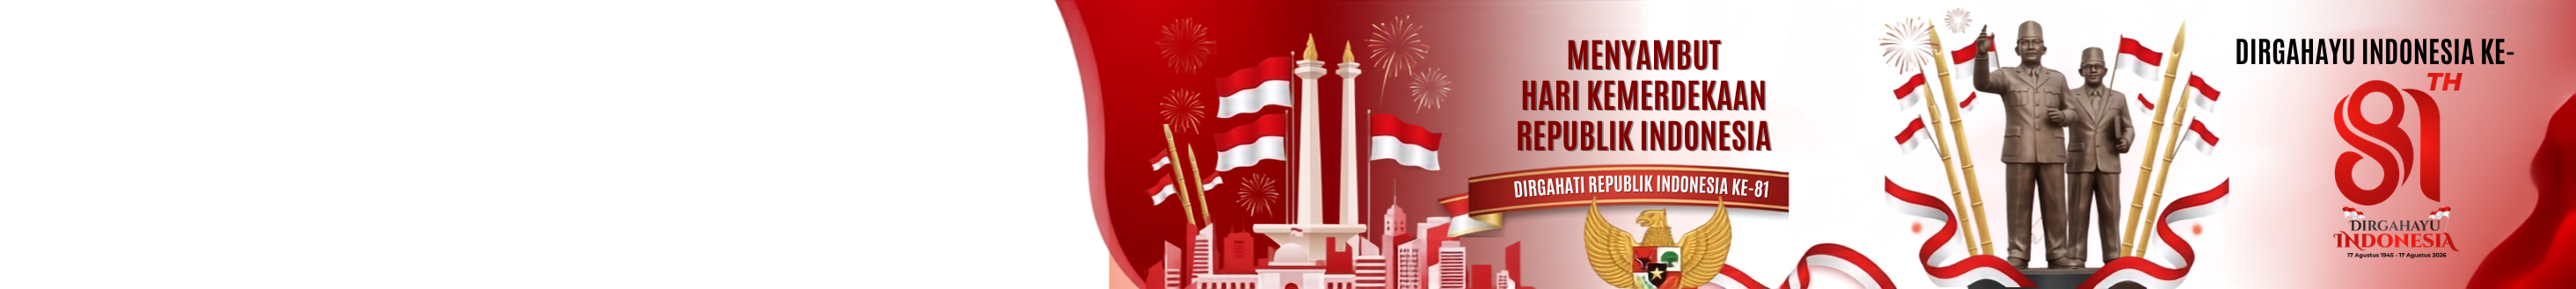
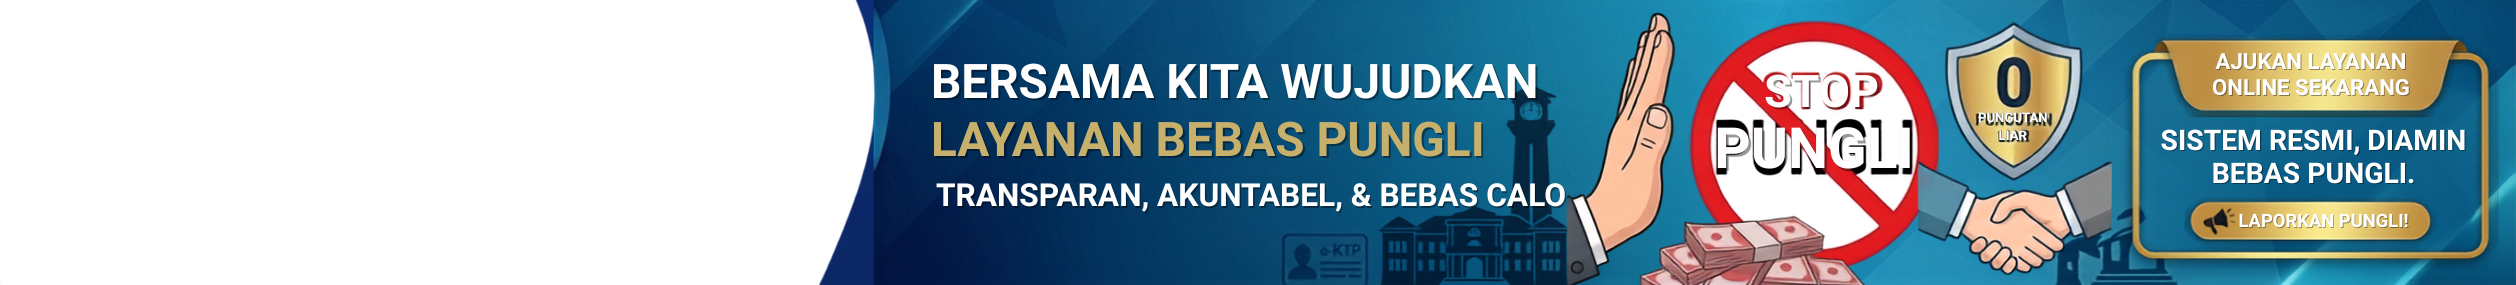
refactor(home): replace news hero with gallery carousel

diff --git a/frontend/public/src/components/home/PopularNewsSection.jsx b/frontend/public/src/components/home/PopularNewsSection.jsx
@@ -1,0 +1,114 @@
+import React, { useState, useEffect } from 'react';
+import { Link } from 'react-router-dom';
+import { newsService } from '../../services/newsService';
+import SectionTitle from '../ui/SectionTitle';
+import { Clock, ChevronRight } from 'lucide-react';
+
+const PopularNewsSection = () => {
+  const [news, setNews] = useState([]);
+  const [isLoading, setIsLoading] = useState(true);
+
+  // Fallback data
+  const fallbackNews = [
+    {
+      id: 'fn1',
+      slug: '#',
+      title: 'Jadwal Perekaman KTP-el Jemput Bola Bulan November',
+      date: '10 Nov 2026'
+    },
+    {
+      id: 'fn2',
+      slug: '#',
+      title: 'Panduan Mengurus Akta Kelahiran Secara Online',
+      date: '08 Nov 2026'
+    },
+    {
+      id: 'fn3',
+      slug: '#',
+      title: 'Perubahan Jam Pelayanan Selama Bulan Ramadhan',
+      date: '05 Nov 2026'
+    },
+    {
+      id: 'fn4',
+      slug: '#',
+      title: 'Waspada Calo! Semua Layanan Adminduk GRATIS',
+      date: '02 Nov 2026'
+    }
+  ];
+
+  useEffect(() => {
+    const fetchPopularNews = async () => {
+      try {
+        setIsLoading(true);
+        // Let's get page 2 so it differs from the top news grid
+        const response = await newsService.getNews(2, 4);
+        if (response?.data && response.data.length > 0) {
+          const normalizedData = response.data.map(item => ({
+            id: item.id,
+            slug: item.slug,
+            title: item.title,
+            date: new Date(item.created_at).toLocaleDateString('id-ID', {
+              day: 'numeric',
+              month: 'short',
+              year: 'numeric'
+            })
+          }));
+          setNews(normalizedData);
+        } else {
+          setNews(fallbackNews);
+        }
+      } catch (error) {
+        console.error('Error fetching popular news:', error);
+        setNews(fallbackNews);
+      } finally {
+        setIsLoading(false);
+      }
+    };
+    fetchPopularNews();
+  }, []);
+
+  if (isLoading) {
+    return (
+      <div className="mt-12">
+        <SectionTitle title="Berita Pilihan" />
+        <div className="flex flex-col gap-4">
+          {[1, 2, 3, 4].map(i => (
+            <div key={i} className="h-16 bg-gray-200 animate-pulse rounded-lg"></div>
+          ))}
+        </div>
+      </div>
+    );
+  }
+
+  return (
+    <div className="mt-12">
+      <div className="flex justify-between items-end mb-6">
+        <SectionTitle title="Berita Pilihan" />
+      </div>
+      
+      <div className="flex flex-col gap-3">
+        {news.map((item) => (
+          <Link 
+            key={item.id} 
+            to={`/berita/${item.slug}`}
+            className="group flex items-center p-4 bg-white rounded-xl border border-border-subtle shadow-sm hover:shadow-md hover:border-brand-primary/30 transition-all duration-300"
+          >
+            <div className="w-2 h-2 rounded-full bg-brand-primary mr-4 opacity-50 group-hover:opacity-100 group-hover:scale-150 transition-all"></div>
+            <div className="flex-grow">
+              <h3 className="text-brand-secondary font-bold text-sm md:text-base leading-snug group-hover:text-brand-primary transition-colors line-clamp-2">
+                {item.title}
+              </h3>
+              <div className="flex items-center text-gray-400 text-xs mt-1.5 font-medium">
+                <Clock size={12} className="mr-1" />
+                <span>{item.date}</span>
+              </div>
+            </div>
+            <ChevronRight className="text-gray-300 group-hover:text-brand-primary group-hover:translate-x-1 transition-all ml-4 shrink-0" size={20} />
+          </Link>
+        ))}
+      </div>
+    </div>
+  );
+};
+
+export default PopularNewsSection;

diff --git a/frontend/public/src/components/home/HeroGallery.jsx b/frontend/public/src/components/home/HeroGallery.jsx
@@ -66,7 +66,9 @@ const HeroGallery = () => {
         
         const children = container.querySelectorAll('.gallery-item');
         if (children[nextIndex]) {
-           children[nextIndex].scrollIntoView({ behavior: 'smooth', block: 'nearest', inline: 'center' });
+           const child = children[nextIndex];
+           const scrollPosition = child.offsetLeft - (container.clientWidth / 2) + (child.clientWidth / 2);
+           container.scrollTo({ left: scrollPosition, behavior: 'smooth' });
         }
       }
     }, 5000);
@@ -75,9 +77,12 @@ const HeroGallery = () => {
 
   const scrollTo = (index) => {
     if (scrollRef.current) {
-      const children = scrollRef.current.querySelectorAll('.gallery-item');
+      const container = scrollRef.current;
+      const children = container.querySelectorAll('.gallery-item');
       if (children[index]) {
-        children[index].scrollIntoView({ behavior: 'smooth', block: 'nearest', inline: 'center' });
+        const child = children[index];
+        const scrollPosition = child.offsetLeft - (container.clientWidth / 2) + (child.clientWidth / 2);
+        container.scrollTo({ left: scrollPosition, behavior: 'smooth' });
         setCurrentIndex(index);
       }
     }
@@ -109,7 +114,7 @@ const HeroGallery = () => {
     return (
       <SectionContainer background="white" className="pt-2 pb-6">
         <div className="w-full flex justify-center py-4">
-          <div className="w-[90%] md:w-[75%] lg:w-[65%] aspect-[16/9] md:aspect-[21/9] bg-gray-200 animate-pulse rounded-2xl"></div>
+          <div className="w-[90%] md:w-[75%] lg:w-[65%] aspect-[4/3] md:aspect-[16/9] bg-gray-200 animate-pulse rounded-2xl"></div>
         </div>
       </SectionContainer>
     );
@@ -146,7 +151,7 @@ const HeroGallery = () => {
                 }`}
                 onClick={() => scrollTo(index)}
               >
-                <div className="relative aspect-[16/9] md:aspect-[21/9] w-full">
+                <div className="relative aspect-[4/3] md:aspect-[16/9] w-full">
                   <img 
                     src={gallery.imageUrl} 
                     alt={gallery.title}

diff --git a/frontend/public/src/components/global/RightSidebar.jsx b/frontend/public/src/components/global/RightSidebar.jsx
@@ -47,20 +47,6 @@ const RightSidebar = () => {
           ))}
         </div>
       </WidgetCard>
-
-      {/* 4. Berita Pilihan */}
-      <WidgetCard title="Berita Pilihan">
-        <ul className="space-y-4">
-          {sidebarData.beritaPilihan.map(item => (
-            <li key={item.id} className="group cursor-pointer">
-              <Link to={`/berita/${item.slug}`} className="text-sm font-bold text-brand-secondary group-hover:text-brand-primary line-clamp-2 leading-snug transition-colors">
-                {item.title}
-              </Link>
-              <span className="text-xs text-gray-500 mt-1 block font-medium">{item.date}</span>
-            </li>
-          ))}
-        </ul>
-      </WidgetCard>
     </aside>
   );
 };

diff --git a/frontend/public/src/pages/Home.jsx b/frontend/public/src/pages/Home.jsx
@@ -5,9 +5,9 @@ import ContentWithSidebarLayout from '../layouts/ContentWithSidebarLayout';
 import HeadlineTicker from '../components/home/HeadlineTicker';
 import HeroGallery from '../components/home/HeroGallery';
 import LatestNewsGrid from '../components/home/LatestNewsGrid';
-import LatestNewsSection from '../components/home/LatestNewsSection';
 import RightSidebar from '../components/global/RightSidebar';
 import FeaturedServicesSection from '../components/home/FeaturedServicesSection';
+import PopularNewsSection from '../components/home/PopularNewsSection';
 import Card from '../components/ui/Card';
 import SectionContainer from '../components/shared/SectionContainer';
 
@@ -40,7 +40,7 @@ const Home = () => {
       <LatestNewsGrid />
 
       {/* 2. Quick Services (Shortcut Layanan) */}
-      <SectionContainer className="bg-white pb-6 pt-10">
+      <SectionContainer className="bg-white pb-4 pt-6">
         <div className="grid grid-cols-2 md:grid-cols-3 lg:grid-cols-6 gap-4">
           {quickServices.map((service, idx) => {
             const Icon = service.icon;
@@ -61,9 +61,9 @@ const Home = () => {
       </SectionContainer>
 
       {/* 3. Transition Section & Statistics */}
-      <SectionContainer className="bg-white pt-2 pb-14 text-center">
-        <div className="max-w-3xl mx-auto mb-10">
-          <h2 className="text-2xl font-bold text-brand-secondary mb-4 uppercase tracking-tight">
+      <SectionContainer className="bg-white pt-2 pb-8 text-center">
+        <div className="max-w-3xl mx-auto mb-8">
+          <h2 className="text-2xl font-bold text-brand-secondary mb-3 uppercase tracking-tight">
             Layanan Unggulan Disdukcapil Kota Tegal
           </h2>
           <p className="text-gray-600 leading-relaxed text-sm md:text-base">
@@ -86,12 +86,12 @@ const Home = () => {
       </SectionContainer>
 
       {/* 4. Main Content (Berita + Layanan) & Sidebar */}
-      <div className="pt-14 md:pt-16 pb-16 md:pb-20 bg-gray-50 border-b border-border-subtle">
+      <div className="pt-8 md:pt-10 pb-16 md:pb-20 bg-gray-50 border-b border-border-subtle">
         <ContentWithSidebarLayout 
           mainContent={
             <>
-              <LatestNewsSection />
               <FeaturedServicesSection />
+              <PopularNewsSection />
             </>
           }
           sidebarContent={<RightSidebar />}

diff --git a/frontend/public/src/routes/index.jsx b/frontend/public/src/routes/index.jsx
@@ -1,6 +1,6 @@
 import { createBrowserRouter, Navigate } from 'react-router-dom'
 import RootLayout from '../components/layout/RootLayout'
-import HomePage from '../pages/HomePage'
+import Home from '../pages/Home'
 import Berita from '../pages/Berita'
 import BeritaDetail from '../pages/BeritaDetail'
 import LayananPublikPage from '../pages/LayananPublikPage'
@@ -25,7 +25,7 @@ const router = createBrowserRouter([
     children: [
       {
         index: true,
-        element: <HomePage />,
+        element: <Home />,
       },
       {
         path: 'profil',

diff --git a/frontend/public/src/components/home/LatestNewsGrid.jsx b/frontend/public/src/components/home/LatestNewsGrid.jsx
@@ -82,7 +82,7 @@ const LatestNewsGrid = () => {
   }
 
   return (
-    <SectionContainer background="white" className="pt-8 pb-12 border-b border-border-subtle">
+    <SectionContainer background="white" className="pt-8 pb-6 border-b border-border-subtle">
       <div className="flex justify-between items-end mb-6">
         <div>
           <h2 className="text-2xl md:text-3xl font-extrabold text-brand-primary">Berita Terbaru</h2>